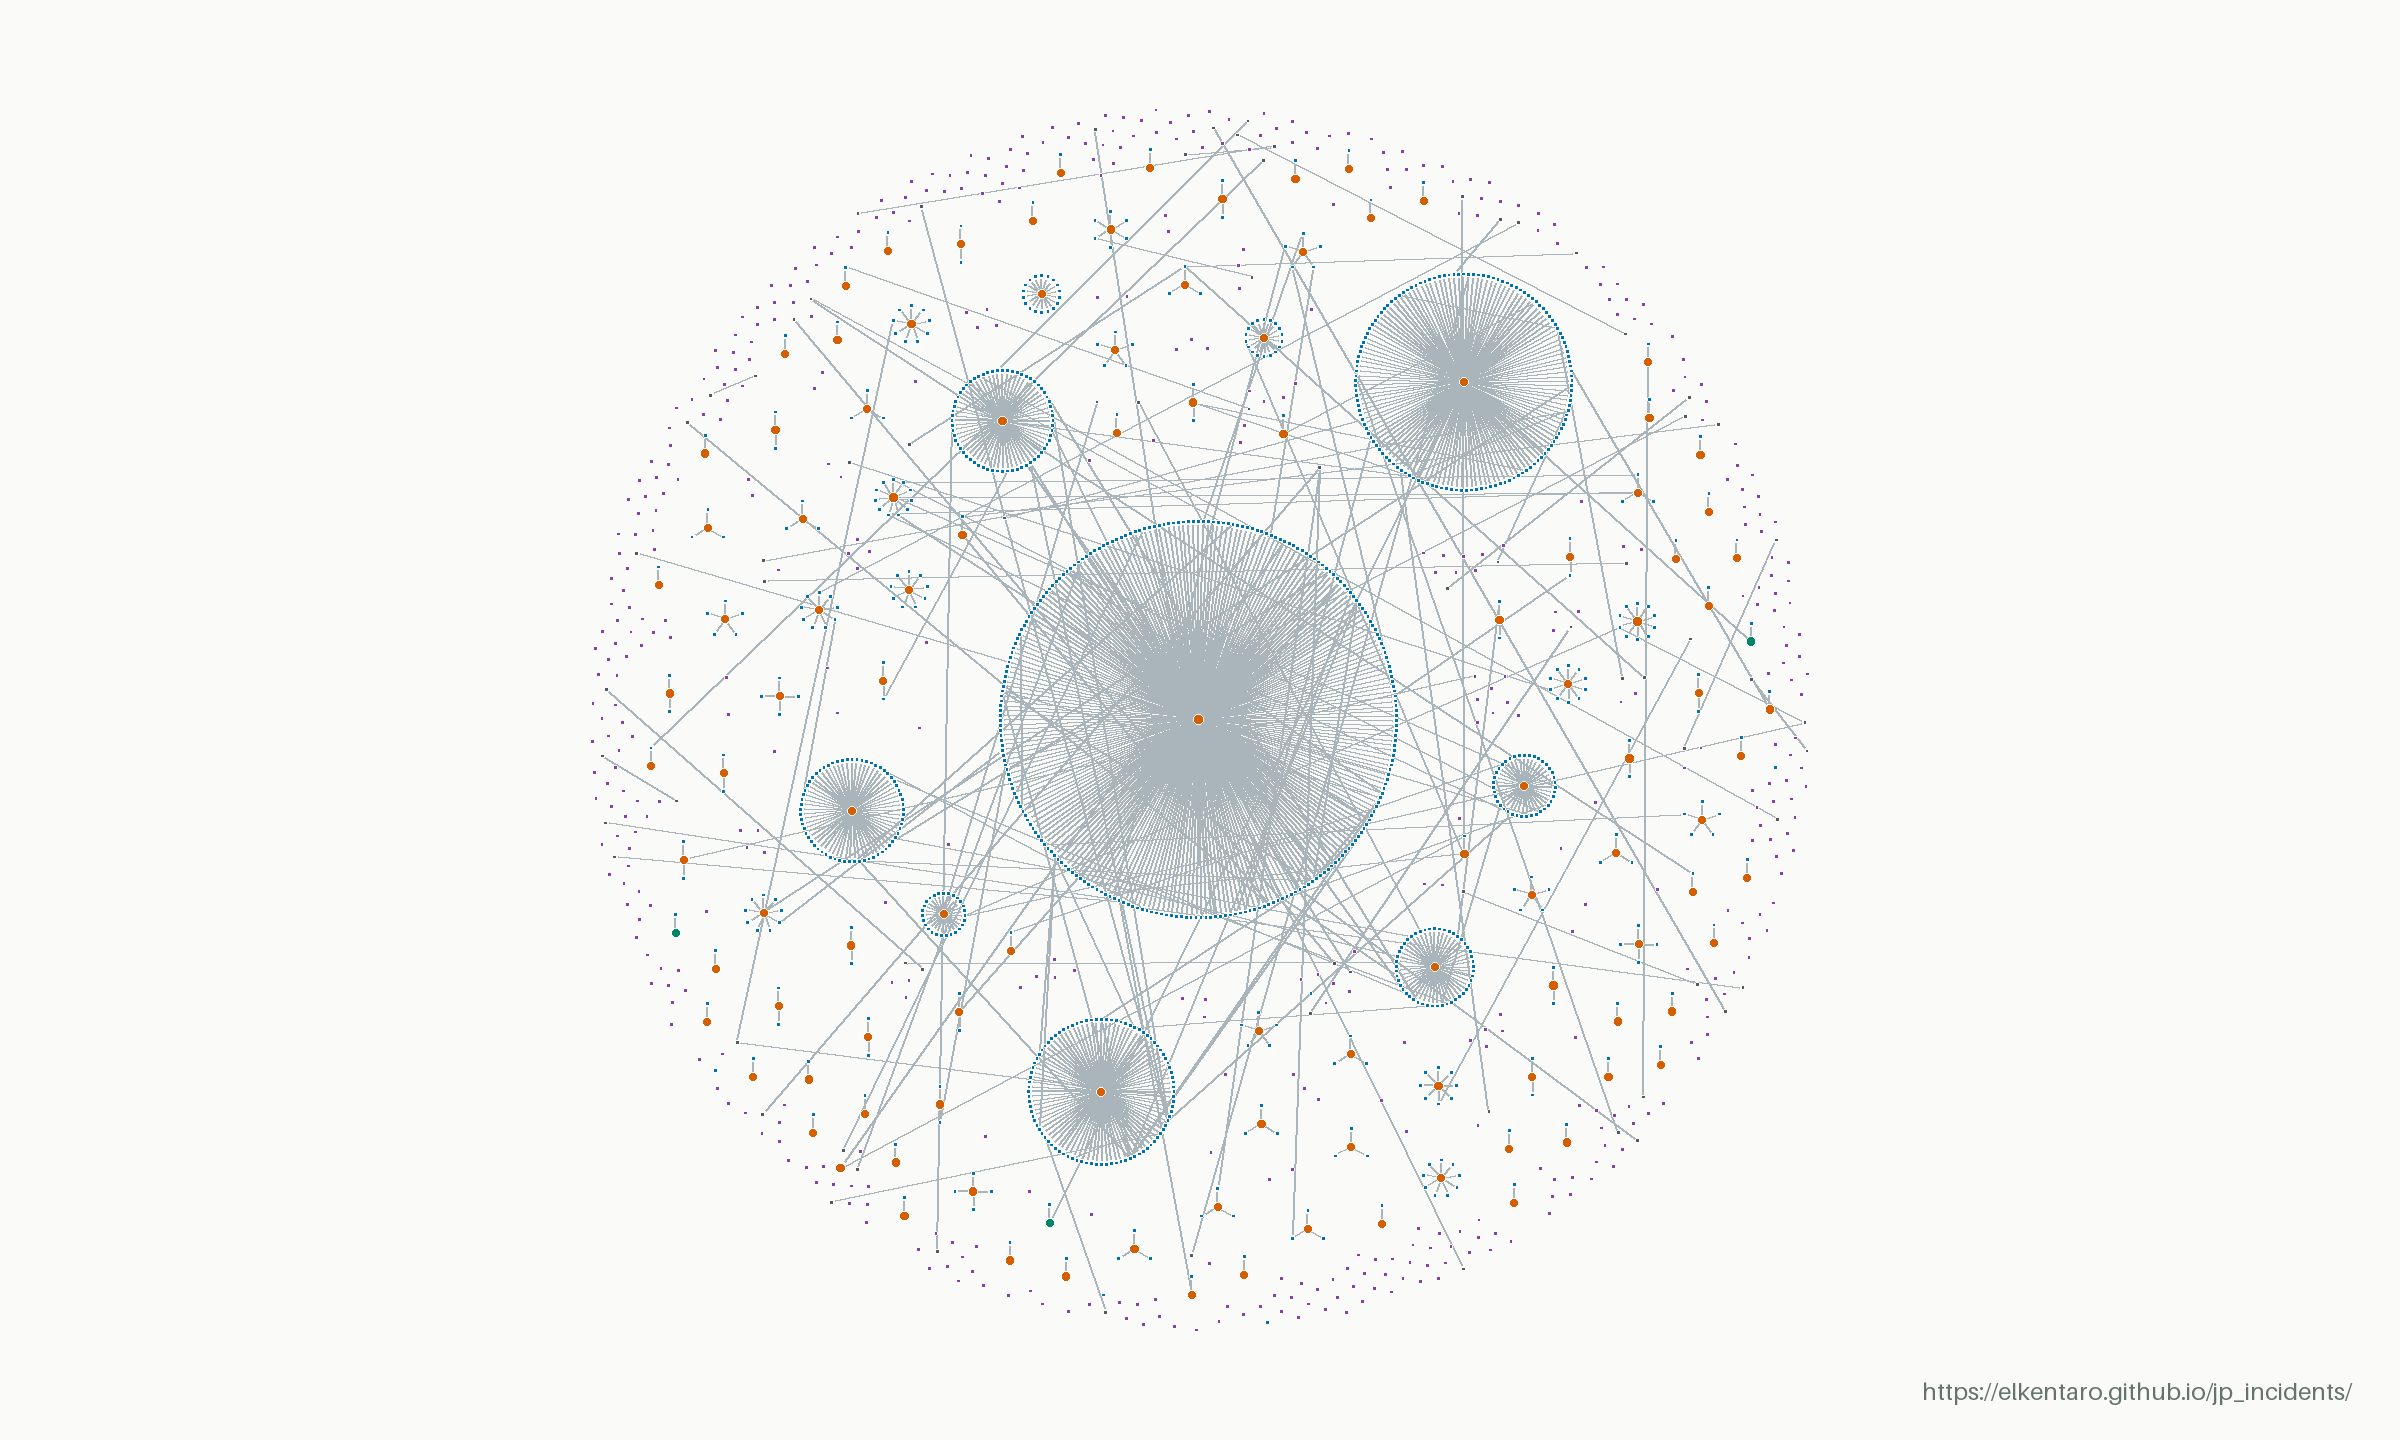
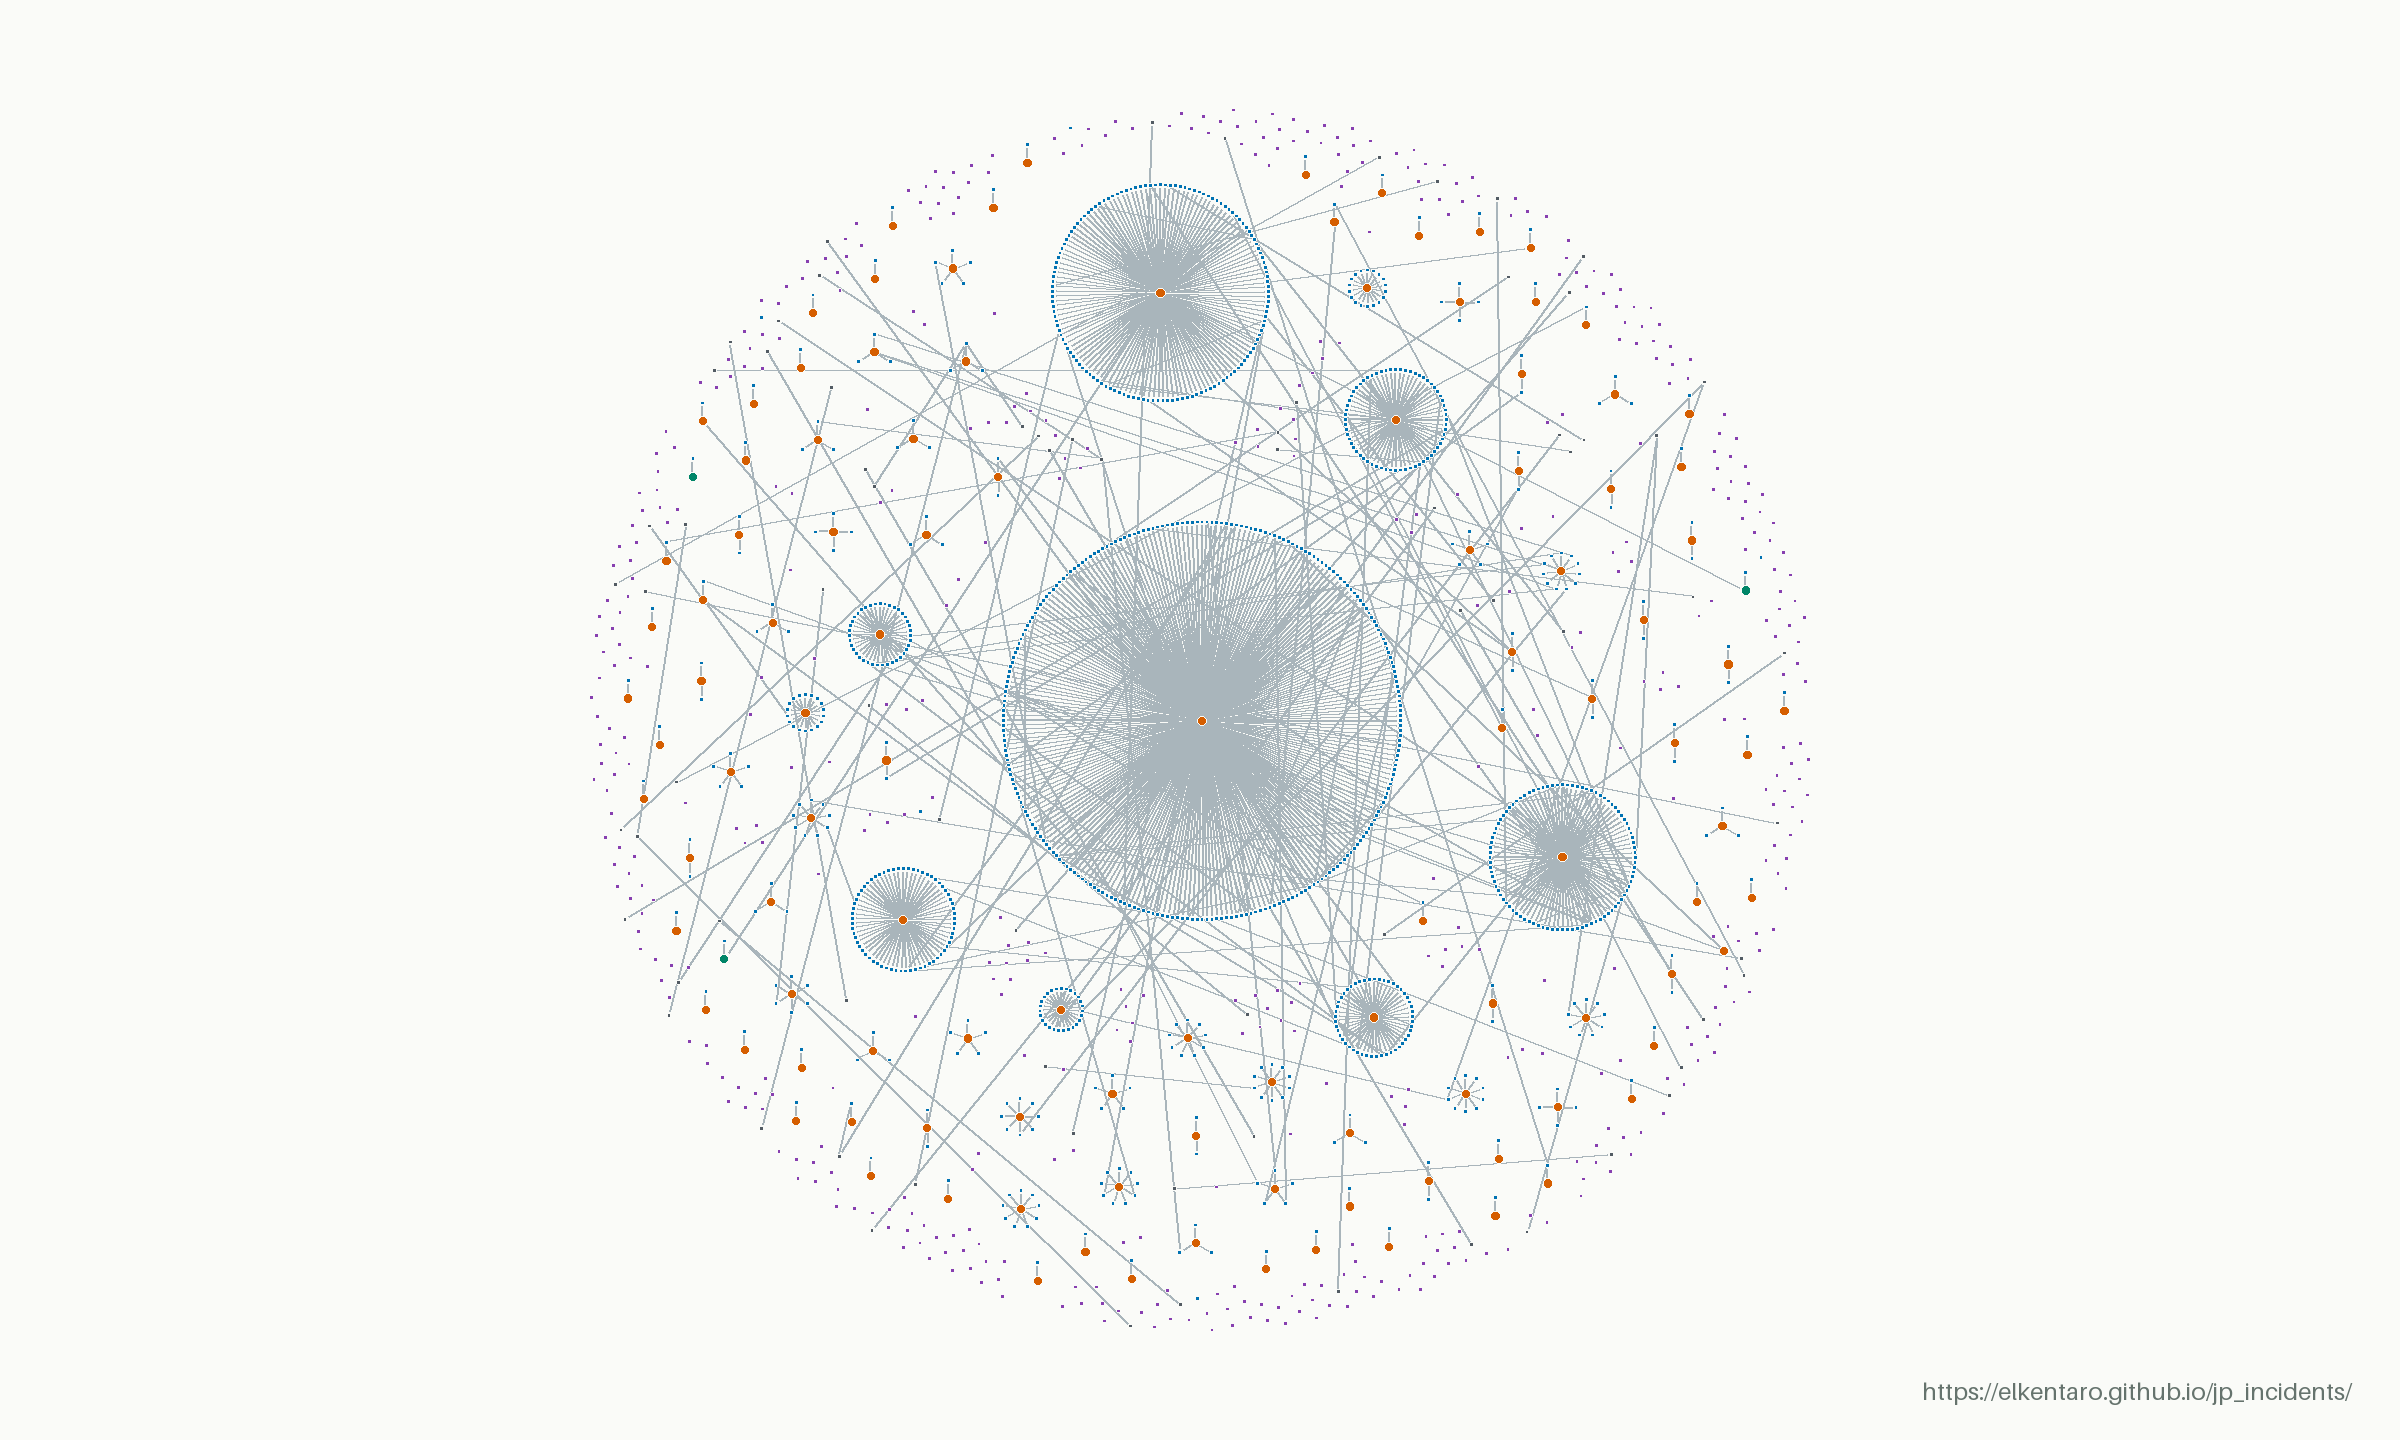
Update incident data (2026-11-27 22:19 UTC)

Changed region(s): [[0.25, 0.0938, 0.75, 0.9062], [0.5938, 0.8125, 0.625, 0.8438], [0.25, 0.375, 0.2812, 0.4062]]

diff --git a/linkage.html b/linkage.html
@@ -36,13 +36,13 @@
         <div><dt data-copy="directUpstream">Upstream incidents</dt><dd id="upstream-count">112</dd></div>
         <div><dt data-copy="directStandalone">Standalone incidents</dt><dd id="standalone-count">568</dd></div>
       </dl>
-      <p class="direct-excluded"><strong id="downstream-count">1028</strong> <span data-copy="directExcluded">downstream records excluded, including incidents with both roles.</span></p>
+      <p class="direct-excluded"><strong id="downstream-count">1029</strong> <span data-copy="directExcluded">downstream records excluded, including incidents with both roles.</span></p>
       <p class="direct-definition" data-copy="directDefinition">Direct incidents = upstream + standalone, based on recorded causal links. Standalone incidents have no upstream or downstream causal links, but may have other links, such as separate events at the same organization.</p>
     </section>
     <dl class="map-stats">
-      <div><dt data-copy="total">Incidents in snapshot</dt><dd>1708</dd></div>
-      <div><dt data-copy="linked">With recorded connections</dt><dd>1209</dd></div>
-      <div><dt data-copy="links">Recorded connections</dt><dd>1162</dd></div>
+      <div><dt data-copy="total">Incidents in snapshot</dt><dd>1709</dd></div>
+      <div><dt data-copy="linked">With recorded connections</dt><dd>1210</dd></div>
+      <div><dt data-copy="links">Recorded connections</dt><dd>1163</dd></div>
       <div><dt data-copy="networks">Connected networks</dt><dd>96</dd></div>
     </dl>
     <figure class="map-figure">
@@ -50,7 +50,7 @@
         <img src="data/linkage-map.png" width="2400" height="1440" alt="Anonymized incident map. Orange upstream hubs connect to blue downstream incidents; purple unlinked incidents appear throughout the same map without connecting lines." data-copy-alt="alt">
       </div>
       <figcaption>
-        <div class="map-caption-meta"><span><span data-copy="updated">Last updated</span>: <time datetime="2026-11-27T17:16:47.864322+00:00">2026-11-27 17:16 UTC</time></span><a href="data/linkage-map.png" target="_blank" rel="noopener" data-copy="open">Open full-resolution image ↗</a></div>
+        <div class="map-caption-meta"><span><span data-copy="updated">Last updated</span>: <time datetime="2026-11-27T22:17:16.631857+00:00">2026-11-27 22:17 UTC</time></span><a href="data/linkage-map.png" target="_blank" rel="noopener" data-copy="open">Open full-resolution image ↗</a></div>
         <div class="map-key-section">
           <strong id="map-key-title" data-copy="key">Key</strong>
           <ul class="map-key" aria-labelledby="map-key-title">
@@ -69,7 +69,7 @@
       <section><h2 data-copy="readingTitle">Reading the map</h2><p data-copy="reading">Orange marks upstream incidents, blue downstream incidents, and purple unlinked incidents with no recorded connection. Teal marks incidents with both upstream and downstream roles; charcoal marks other related incidents. A missing connection does not establish that two incidents are unrelated.</p></section>
       <section><h2 data-copy="snapshotTitle">About this snapshot</h2><p data-copy="snapshot">The static image is refreshed when published incidents or relationships change, and at least every 24 hours during normal publication. Larger upstream clusters have extra spacing to keep their victims apart. Names, incident IDs, source links and incident dates are omitted; the connection pattern is retained. It is an overview of recorded relationships, not a complete map of cyber incidents in Japan.</p></section>
     </div>
-    <p class="map-source"><span data-copy="sourceUpdated">Source data updated</span>: <time datetime="2026-11-27T17:16:47+00:00">2026-11-27T17:16:47+00:00</time> · <a href="./" data-copy="browse">Browse the incident index</a></p>
+    <p class="map-source"><span data-copy="sourceUpdated">Source data updated</span>: <time datetime="2026-11-27T22:17:16+00:00">2026-11-27T22:17:16+00:00</time> · <a href="./" data-copy="browse">Browse the incident index</a></p>
   </main>
   <footer><div class="shell footer-inner"><p data-copy="footer">Public reports. Recorded relationships. An anonymized overview.</p><a href="./" data-copy="back">Back to incidents</a></div></footer>
   <script src="linkage.js?v=20261107-spacing" defer></script>
